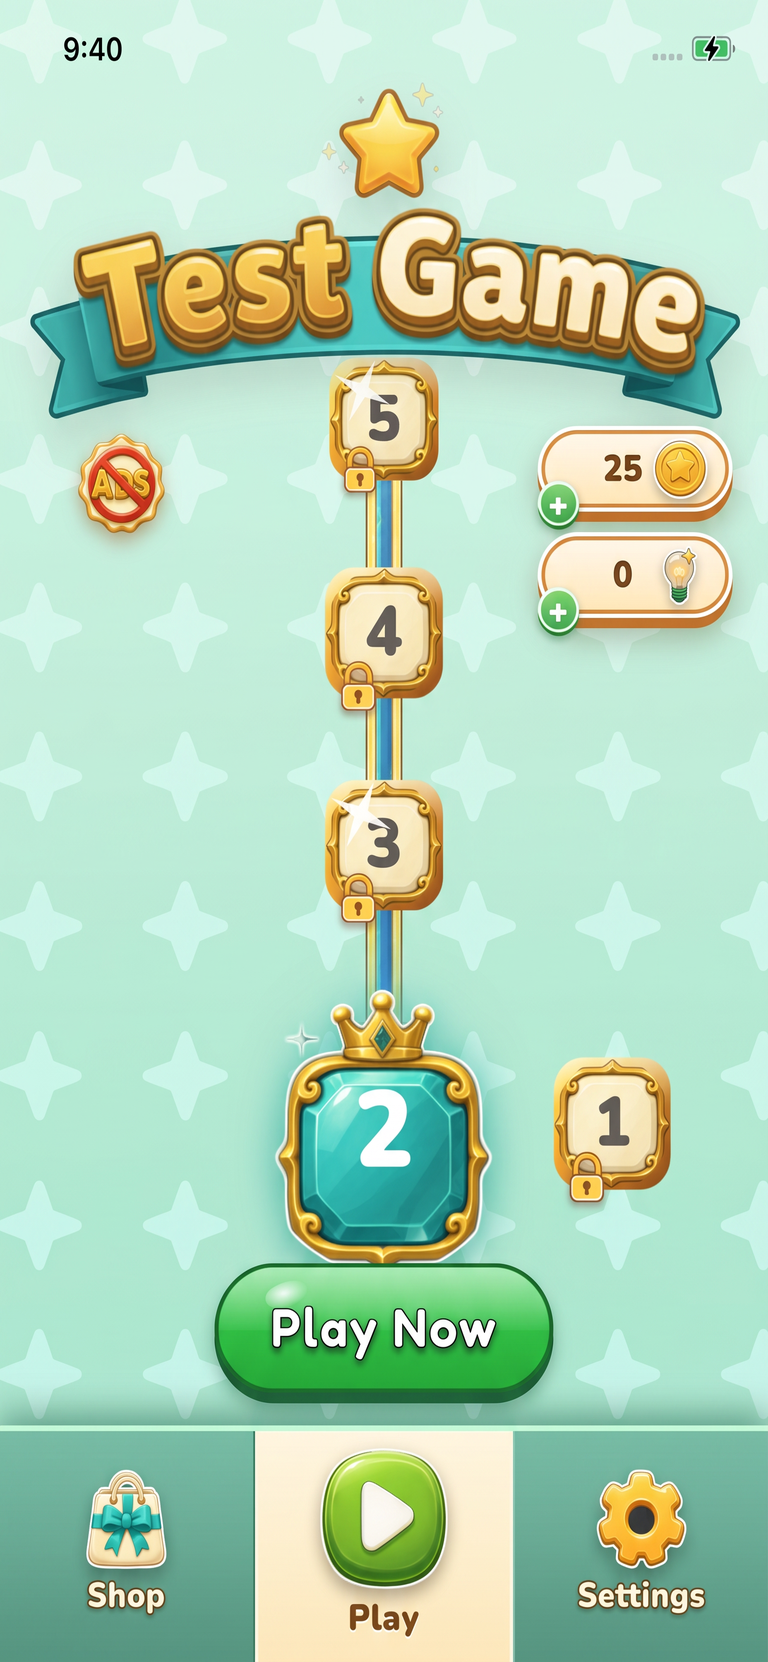
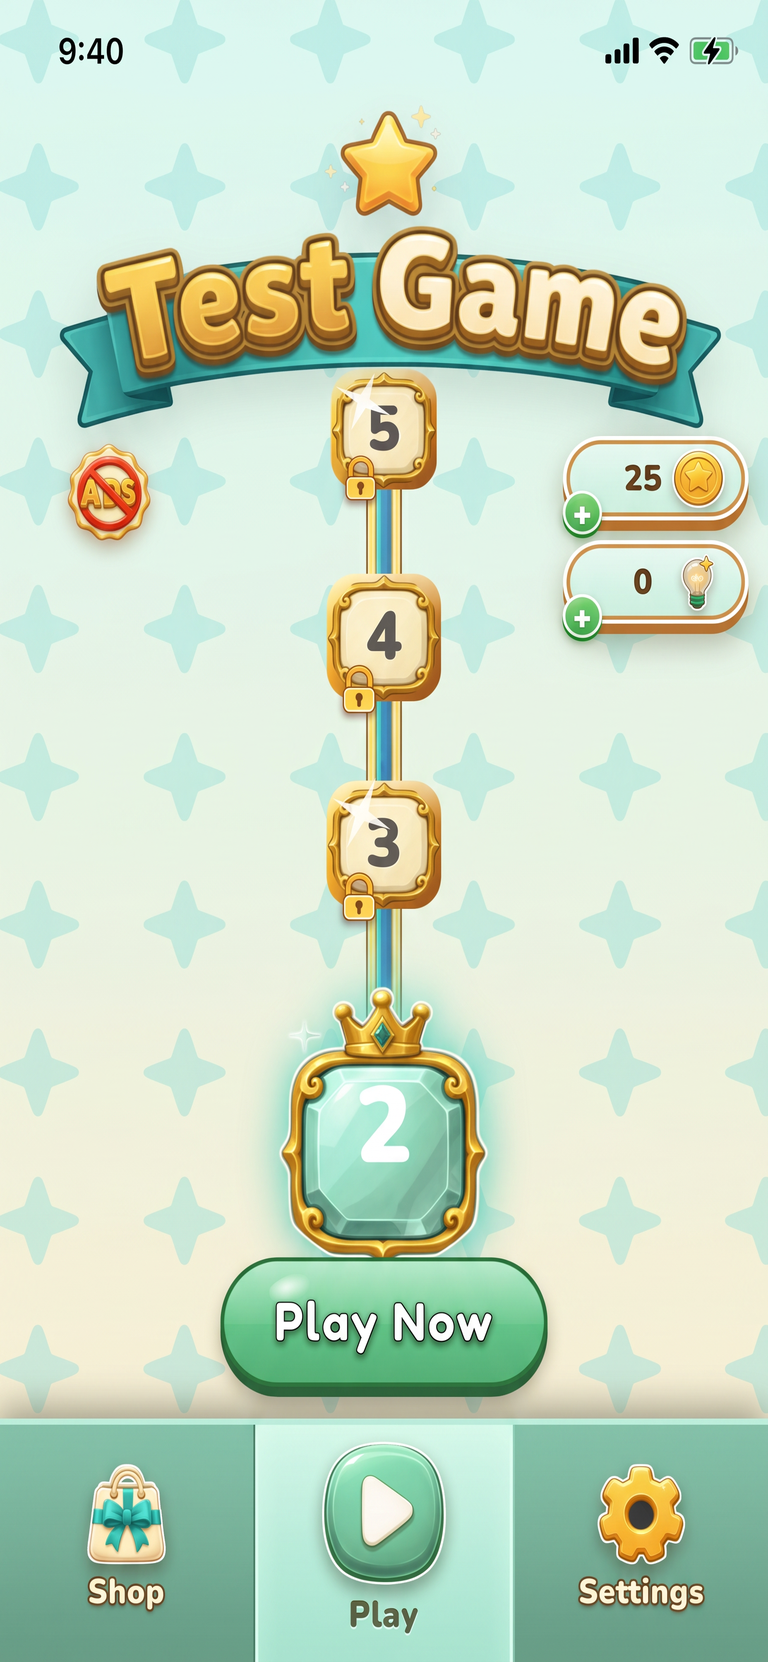
feat(shell_template): real-CSS color scheme layer + calm tile candidates
Scheme tokens (--sch-*) with 5 palette sets as html[data-scheme]
attributes: home backdrop ramp, nav bar, Play CTA quad, and COLORED
win/fail overlay backdrops (default now warm amber / somber slate, not
pale grey). Batu: previews must be actual hex changes, not generation —
scheme pick page renders the live game per scheme (browser diagnostic;
device verify follows the pick). Calm tile set generated as the
less-ornate alternative.

diff --git a/games/shell_template/src/ui/styles.css b/games/shell_template/src/ui/styles.css
@@ -4563,3 +4563,84 @@
 .scene-transition-spinner { animation: loadingSpin 1.6s linear infinite; }
 @keyframes loadingSpin { to { transform: rotate(360deg); } }
 @media (prefers-reduced-motion: reduce) { .scene-transition-spinner { animation: none; } }
+
+
+/* ============================================================
+   COLOR SCHEME TOKENS (plan section C — real hex, no generation)
+   The div-painted surfaces read these vars; a palette swap is one
+   html[data-scheme] attribute. Generated ASSETS keep their baked
+   colors — palette-carrying assets get regenerated separately.
+   Defaults reproduce the shipped cream/amber look exactly.
+   ============================================================ */
+:root {
+  --sch-bg-top: #fff2cf;
+  --sch-bg-mid: #ffd79a;
+  --sch-bg-bot: #f1a957;
+  --sch-spot: rgba(255, 251, 232, 0.85);
+  --sch-vig: rgba(120, 62, 18, 0.34);
+  --sch-nav-top: #7a4a22;
+  --sch-nav-bot: #5c3414;
+  --sch-nav-border: rgba(255, 190, 80, 0.22);
+  --sch-cta-top: hsl(128deg 70% 52%);
+  --sch-cta-bottom: hsl(128deg 68% 40%);
+  --sch-cta-border: hsl(128deg 60% 24%);
+  --sch-cta-shadow: hsl(130deg 56% 22%);
+  /* Result overlays get real color (Batu: not pale/translucent). */
+  --sch-win-overlay-bg: linear-gradient(180deg, rgba(255, 205, 120, 0.62) 0%, rgba(214, 138, 52, 0.66) 55%, rgba(150, 84, 24, 0.72) 100%);
+  --sch-fail-overlay-bg: linear-gradient(180deg, rgba(64, 78, 108, 0.62) 0%, rgba(84, 66, 56, 0.66) 50%, rgba(56, 38, 26, 0.74) 100%);
+}
+html[data-scheme="mint"] {
+  --sch-bg-top: #ecfaf3; --sch-bg-mid: #cdeee0; --sch-bg-bot: #a3dcc4;
+  --sch-spot: rgba(244, 255, 250, 0.85); --sch-vig: rgba(22, 92, 70, 0.30);
+  --sch-nav-top: #33806a; --sch-nav-bot: #22594a; --sch-nav-border: rgba(160, 255, 215, 0.25);
+  --sch-win-overlay-bg: linear-gradient(180deg, rgba(146, 226, 196, 0.60) 0%, rgba(58, 152, 120, 0.68) 100%);
+  --sch-fail-overlay-bg: linear-gradient(180deg, rgba(52, 88, 78, 0.64) 0%, rgba(28, 54, 46, 0.76) 100%);
+}
+html[data-scheme="berry"] {
+  --sch-bg-top: #ffeef3; --sch-bg-mid: #ffd2e0; --sch-bg-bot: #efaac2;
+  --sch-spot: rgba(255, 244, 248, 0.85); --sch-vig: rgba(112, 24, 60, 0.32);
+  --sch-nav-top: #7d3053; --sch-nav-bot: #5a2038; --sch-nav-border: rgba(255, 170, 205, 0.25);
+  --sch-win-overlay-bg: linear-gradient(180deg, rgba(240, 160, 195, 0.60) 0%, rgba(168, 66, 110, 0.68) 100%);
+  --sch-fail-overlay-bg: linear-gradient(180deg, rgba(92, 52, 70, 0.64) 0%, rgba(54, 26, 40, 0.76) 100%);
+}
+html[data-scheme="ocean"] {
+  --sch-bg-top: #ebf5ff; --sch-bg-mid: #c9e3fa; --sch-bg-bot: #9dc7ef;
+  --sch-spot: rgba(244, 250, 255, 0.85); --sch-vig: rgba(20, 62, 110, 0.32);
+  --sch-nav-top: #2f5a7d; --sch-nav-bot: #1f3f5a; --sch-nav-border: rgba(150, 210, 255, 0.25);
+  --sch-win-overlay-bg: linear-gradient(180deg, rgba(140, 195, 245, 0.60) 0%, rgba(52, 110, 178, 0.68) 100%);
+  --sch-fail-overlay-bg: linear-gradient(180deg, rgba(48, 68, 96, 0.64) 0%, rgba(24, 36, 56, 0.76) 100%);
+}
+html[data-scheme="sunset"] {
+  --sch-bg-top: #fff0e0; --sch-bg-mid: #ffcfa4; --sch-bg-bot: #f0925c;
+  --sch-spot: rgba(255, 246, 234, 0.85); --sch-vig: rgba(122, 44, 16, 0.34);
+  --sch-nav-top: #8a4a26; --sch-nav-bot: #633016; --sch-nav-border: rgba(255, 180, 110, 0.25);
+  --sch-win-overlay-bg: linear-gradient(180deg, rgba(255, 178, 110, 0.62) 0%, rgba(198, 96, 40, 0.70) 100%);
+  --sch-fail-overlay-bg: linear-gradient(180deg, rgba(96, 58, 44, 0.64) 0%, rgba(58, 32, 22, 0.76) 100%);
+}
+html[data-scheme="midnight"] {
+  --sch-bg-top: #323761; --sch-bg-mid: #262b4e; --sch-bg-bot: #191d3a;
+  --sch-spot: rgba(120, 130, 200, 0.30); --sch-vig: rgba(0, 0, 0, 0.45);
+  --sch-nav-top: #171a33; --sch-nav-bot: #0d0f22; --sch-nav-border: rgba(140, 150, 230, 0.25);
+  --sch-win-overlay-bg: linear-gradient(180deg, rgba(70, 78, 140, 0.66) 0%, rgba(30, 34, 70, 0.80) 100%);
+  --sch-fail-overlay-bg: linear-gradient(180deg, rgba(44, 48, 84, 0.70) 0%, rgba(16, 18, 38, 0.84) 100%);
+}
+
+/* Surfaces re-pointed at scheme tokens (same specificity, later cascade). */
+#hud-overlay.home-mode {
+  background:
+    radial-gradient(118% 72% at 50% 7%, var(--sch-spot) 0%, transparent 52%),
+    radial-gradient(145% 118% at 50% 116%, var(--sch-vig) 0%, transparent 56%),
+    linear-gradient(180deg, var(--sch-bg-top) 0%, var(--sch-bg-mid) 48%, var(--sch-bg-bot) 100%);
+}
+#home-shell .home-nav-bar, .play-entry-home-shell .home-nav-bar, .home-nav-bar {
+  background: linear-gradient(180deg, var(--sch-nav-top) 0%, var(--sch-nav-bot) 100%);
+  border-top: 1.5px solid var(--sch-nav-border);
+}
+#home-play-now.home-play-now-btn {
+  --shop-price-top: var(--sch-cta-top);
+  --shop-price-bottom: var(--sch-cta-bottom);
+  --shop-price-border: var(--sch-cta-border);
+  --shop-price-shadow: var(--sch-cta-shadow);
+}
+#level-complete-overlay.fab-complete { background: var(--sch-win-overlay-bg); }
+#level-failed-overlay { background: var(--sch-fail-overlay-bg); }